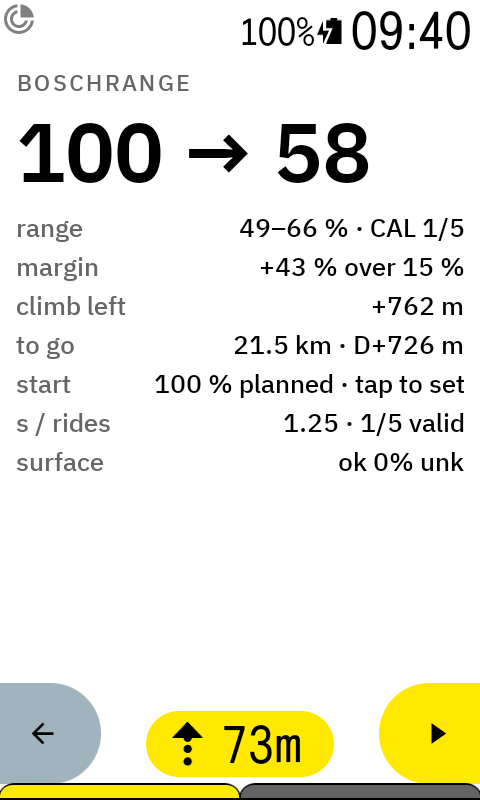
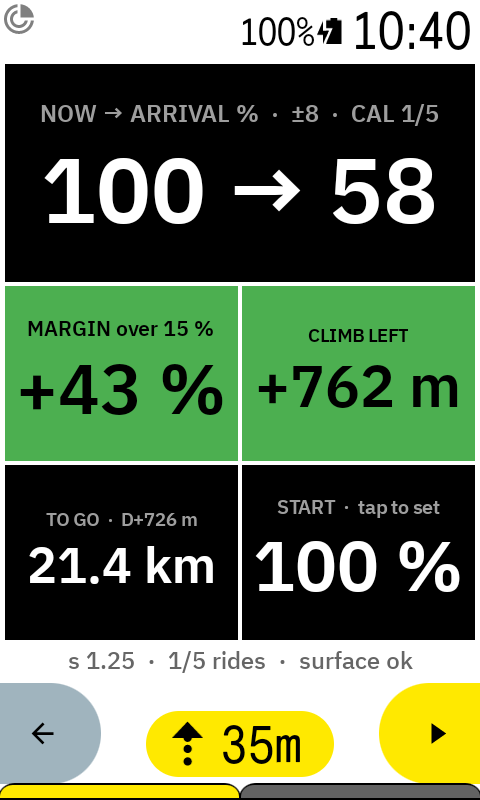
boschRange page as a grid in the dashboard style
Black cells with a grey caption and a big number, margin and climb left
on a green or red background, footer with s, rides and surface state.
The page no longer shares the debug layout.

Claude-Session: https://claude.ai/code/session_01JZj55SWxgeCuYPsXtstx2d

diff --git a/boschrange/src/main/kotlin/com/anpaiss/boschrange/RangePageDataType.kt b/boschrange/src/main/kotlin/com/anpaiss/boschrange/RangePageDataType.kt
@@ -1,47 +1,159 @@
 package com.anpaiss.boschrange
 
+import android.content.Context
+import android.util.TypedValue
+import android.widget.RemoteViews
+import com.anpaiss.bettereta.throttle
+import com.anpaiss.bettereta.whileVisible
+import io.hammerhead.karooext.extension.DataTypeImpl
+import io.hammerhead.karooext.internal.Emitter
+import io.hammerhead.karooext.internal.ViewEmitter
+import io.hammerhead.karooext.models.DataPoint
+import io.hammerhead.karooext.models.DataType
+import io.hammerhead.karooext.models.StreamState
+import io.hammerhead.karooext.models.UpdateGraphicConfig
+import io.hammerhead.karooext.models.ViewConfig
+import kotlinx.coroutines.CoroutineScope
+import kotlinx.coroutines.Dispatchers
+import kotlinx.coroutines.SupervisorJob
+import kotlinx.coroutines.cancel
 import kotlinx.coroutines.flow.StateFlow
+import kotlinx.coroutines.flow.distinctUntilChanged
+import kotlinx.coroutines.flow.map
+import kotlinx.coroutines.launch
 
 /**
- * The boschRange page (step 3, 19/10/2026): battery now and at arrival in
- * big, then range, margin, climb left, Wh spent, route to go, last entry,
- * calibration and surface, one item per row. Same layout and sizing as the
- * debug page; a tap opens "Battery now?".
+ * The boschRange page (step 3, 19/10/2026), a grid in the style of the
+ * BetterETA dashboard: black cells, grey caption on top, big number.
+ *
+ *   NOW → ARRIVAL        "100 → 58"             caption carries the band and the calibration state
+ *   MARGIN | CLIMB LEFT  "+43 %" | "+762 m"     green when the route fits, red when it does not
+ *   TO GO  | SPENT       "21.5 km" | "123 Wh"   (START "100 %" planned, before the ride)
+ *   footer               last entry, s, rides, surface state
+ *
+ * A tap anywhere opens "Battery now?" ([BatteryTapReceiver]); not in the preview.
  */
 class RangePageDataType(
     extension: String,
-    state: StateFlow<DebugState>,
-    visibleDataTypeIds: StateFlow<Set<String>?>,
-) : DebugFieldDataType(extension, "page", "BOSCHRANGE", state, visibleDataTypeIds) {
+    private val state: StateFlow<DebugState>,
+    private val visibleDataTypeIds: StateFlow<Set<String>?>,
+) : DataTypeImpl(extension, "page") {
 
-    override fun render(s: DebugState): PageContent {
-        if (!s.enabled && !s.rideOpen) return PageContent("OFF", listOf("boschRange" to "disabled in the app"))
-        val rows = mutableListOf<Pair<String, String>>()
+    private enum class Tone { NEUTRAL, OK, BAD }
+    private data class Cell(val label: String, val value: String, val tone: Tone = Tone.NEUTRAL)
+    private data class Page(val a: Cell, val b1: Cell, val b2: Cell, val c1: Cell, val c2: Cell, val footer: String)
+
+    companion object {
+        private const val REDRAW_THROTTLE_MS = 5_000L
+        private const val CHAR_EM = 0.62f     // bold digits, width per character
+        private const val WEIGHT_A = 1.25f    // the arrival row is taller than the two below (same as the layout)
+        private const val FOOTER_SP = 13f
+        private const val BLACK = 0xFF000000.toInt()
+        private const val WHITE = 0xFFFFFFFF.toInt()
+        private const val GREY = 0xFF9E9E9E.toInt()
+        private const val GREEN = 0xFF4CAF50.toInt()   // black text: 7.6:1
+        private const val RED = 0xFFD32F2F.toInt()     // white text: 5.0:1
+    }
+
+    override fun startStream(emitter: Emitter<StreamState>) {
+        val scope = CoroutineScope(Dispatchers.IO + SupervisorJob())
+        scope.launch {
+            state.map { Math.round(it.estimatedPct).toDouble() }.distinctUntilChanged().collect { pct ->
+                emitter.onNext(StreamState.Streaming(DataPoint(dataTypeId, mapOf(DataType.Field.SINGLE to pct))))
+            }
+        }
+        emitter.setCancellable { scope.cancel() }
+    }
+
+    override fun startView(context: Context, config: ViewConfig, emitter: ViewEmitter) {
+        val scope = CoroutineScope(Dispatchers.IO + SupervisorJob())
+        val density = context.resources.displayMetrics.density
+        val widthDp = config.viewSize.first / density - 4f          // page padding
+        val heightDp = config.viewSize.second / density - 16f       // 2 dp top, 14 dp bottom: the Karoo bar overlaps the last pixels
+        val footerDp = FOOTER_SP * 1.3f * 2 + 2f                     // two lines
+        val rowsDp = heightDp - footerDp - 2f * 2                    // minus the two row gaps
+        val rowADp = rowsDp * WEIGHT_A / (WEIGHT_A + 2f)
+        val rowBDp = rowsDp / (WEIGHT_A + 2f)
+        val halfDp = (widthDp - 2f) / 2f
+        val tap = if (config.preview) null else BatteryTapReceiver.pendingIntent(context)
+        scope.launch {
+            emitter.onNext(UpdateGraphicConfig(showHeader = false))
+            state.map { render(it) }
+                .distinctUntilChanged()
+                .whileVisible(visibleDataTypeIds, dataTypeId, config.preview)
+                .throttle(REDRAW_THROTTLE_MS)
+                .collect { p ->
+                    val views = RemoteViews(context.packageName, R.layout.view_range_page)
+                    cell(views, R.id.cell_a, R.id.lbl_a, R.id.val_a, p.a, widthDp, rowADp)
+                    cell(views, R.id.cell_b1, R.id.lbl_b1, R.id.val_b1, p.b1, halfDp, rowBDp)
+                    cell(views, R.id.cell_b2, R.id.lbl_b2, R.id.val_b2, p.b2, halfDp, rowBDp)
+                    cell(views, R.id.cell_c1, R.id.lbl_c1, R.id.val_c1, p.c1, halfDp, rowBDp)
+                    cell(views, R.id.cell_c2, R.id.lbl_c2, R.id.val_c2, p.c2, halfDp, rowBDp)
+                    views.setTextViewText(R.id.tv_footer, p.footer)
+                    views.setTextViewTextSize(R.id.tv_footer, TypedValue.COMPLEX_UNIT_SP, FOOTER_SP)
+                    tap?.let { views.setOnClickPendingIntent(R.id.page_root, it) }
+                    emitter.updateView(views)
+                }
+        }
+        emitter.setCancellable { scope.cancel() }
+    }
+
+    /** Caption and value sized to the cell: value 0.46 of the height, never wider than the cell. */
+    private fun cell(views: RemoteViews, cellId: Int, lblId: Int, valId: Int, c: Cell, wDp: Float, hDp: Float) {
+        val byHeight = hDp * 0.46f
+        val byWidth = (wDp - 8f) / (CHAR_EM * c.value.length.coerceAtLeast(3))
+        val valueSp = minOf(byHeight, byWidth).coerceIn(16f, 96f)
+        val labelByWidth = (wDp - 8f) / (0.55f * c.label.length.coerceAtLeast(6))
+        val labelSp = minOf(valueSp * 0.30f, labelByWidth).coerceIn(10f, 18f)
+        val (bg, fg, lbl) = when (c.tone) {
+            Tone.NEUTRAL -> Triple(BLACK, WHITE, GREY)
+            Tone.OK -> Triple(GREEN, BLACK, BLACK)
+            Tone.BAD -> Triple(RED, WHITE, WHITE)
+        }
+        views.setInt(cellId, "setBackgroundColor", bg)
+        views.setTextViewText(lblId, c.label)
+        views.setTextViewText(valId, c.value)
+        views.setTextColor(lblId, lbl)
+        views.setTextColor(valId, fg)
+        views.setTextViewTextSize(lblId, TypedValue.COMPLEX_UNIT_SP, labelSp)
+        views.setTextViewTextSize(valId, TypedValue.COMPLEX_UNIT_SP, valueSp)
+    }
+
+    private fun render(s: DebugState): Page {
+        if (!s.enabled && !s.rideOpen) {
+            val off = Cell("", "--")
+            return Page(Cell("BOSCHRANGE", "OFF"), off, off, off, off, "disabled in the app")
+        }
         val now = if (s.rideOpen) s.estimatedPct else s.planningPct.toDouble()
         val arrival = s.arrivalPct
-        val big = if (arrival == null) "%.0f %%".format(now) else "%.0f → %.0f %%".format(now, arrival)
-        if (arrival != null) {
-            val cal = if (s.historyValid < RangeForecast.CALIBRATION_RIDES) " · CAL ${s.historyValid}/${RangeForecast.CALIBRATION_RIDES}" else ""
-            rows += "range" to "%.0f–%.0f %%%s".format(arrival - s.halfBandPct, arrival + s.halfBandPct, cal)
-            rows += "margin" to "%+d %% over %d %%".format(Math.round(s.marginPct), s.thresholdPct)
-            rows += "climb left" to "%+d m".format(Math.round(s.extraClimbM))
-            rows += "to go" to "%.1f km · D+%.0f m".format(s.remainingKm, s.remainingAscentM)
-        } else {
-            rows += "route" to "none"
+        val cal = if (s.historyValid < RangeForecast.CALIBRATION_RIDES) "CAL ${s.historyValid}/${RangeForecast.CALIBRATION_RIDES}" else "calibrated"
+        val a = if (arrival == null) Cell("BATTERY NOW  ·  no route", "%.0f %%".format(now))
+            else Cell("NOW → ARRIVAL %%  ·  ±%.0f  ·  %s".format(s.halfBandPct, cal), "%.0f → %.0f".format(now, arrival))
+        val b1 = if (arrival == null) Cell("MARGIN", "--")
+            else Cell("MARGIN over ${s.thresholdPct} %", "%+d %%".format(Math.round(s.marginPct)), if (s.marginPct >= 0.0) Tone.OK else Tone.BAD)
+        val b2 = if (arrival == null) Cell("CLIMB LEFT", "--")
+            else Cell("CLIMB LEFT", "%+d m".format(Math.round(s.extraClimbM)), if (s.extraClimbM >= 0.0) Tone.OK else Tone.BAD)
+        val c1 = if (arrival == null) Cell("TO GO", "--")
+            else Cell("TO GO  ·  D+%.0f m".format(s.remainingAscentM), "%.1f km".format(s.remainingKm))
+        val c2 = if (s.rideOpen) Cell("SPENT  ·  %.0f %%".format(s.whEstimated / s.capacityWh * 100.0), "%.0f Wh".format(s.whEstimated))
+            else Cell("START  ·  tap to set", "%d %%".format(s.planningPct))
+        val parts = mutableListOf<String>()
+        if (s.rideOpen) parts += when {
+            s.manualUpdates > 0 -> "set %d %% @ %.1f km, %d min ago".format(s.lastUpdatePct, s.lastUpdateKm, s.lastUpdateAgeMin.coerceAtLeast(0))
+            s.startAssumed -> "start %d %% assumed".format(s.startPct)
+            else -> "start %d %% confirmed".format(s.startPct)
         }
-        if (s.rideOpen) {
-            rows += "spent" to "%.0f Wh · %.0f %%".format(s.whEstimated, s.whEstimated / s.capacityWh * 100.0)
-            rows += "last set" to when {
-                s.manualUpdates > 0 -> "%d %% @ %.1f km · %d min".format(s.lastUpdatePct, s.lastUpdateKm, s.lastUpdateAgeMin.coerceAtLeast(0))
-                s.startAssumed -> "none · start %d %% assumed".format(s.startPct)
-                else -> "start %d %% ✓".format(s.startPct)
-            }
-            rows += "ride" to "%.1f km D+%s %s".format(s.distanceKm, m(s.ascentKarooM), hm(s.movingS))
-        } else {
-            rows += "start" to "%d %% planned · tap to set".format(s.planningPct)
-        }
-        rows += "s / rides" to "%.2f · %d/%d valid".format(s.sUsed, s.historyValid, RangeForecast.CALIBRATION_RIDES)
-        if (s.hasRoute) rows += "surface" to surfaceValue(s)
-        return PageContent(big, rows)
+        parts += "s %.2f".format(s.sUsed)
+        parts += "%d/%d rides".format(s.historyValid, RangeForecast.CALIBRATION_RIDES)
+        if (s.hasRoute) parts += "surface " + surfaceShort(s)
+        return Page(a, b1, b2, c1, c2, parts.joinToString("  ·  "))
+    }
+
+    private fun surfaceShort(s: DebugState): String = when {
+        s.routeUnclassifiedPct < 0.0 -> "classifying…"
+        s.surfaceComplete == null -> "not classified"
+        s.surfaceComplete == false -> "partial"
+        s.routeUnclassifiedPct >= 1.0 -> "%.0f%% unknown".format(s.routeUnclassifiedPct)
+        else -> "ok"
     }
 }

diff --git a/boschrange/src/main/kotlin/com/anpaiss/boschrange/DebugFieldDataType.kt b/boschrange/src/main/kotlin/com/anpaiss/boschrange/DebugFieldDataType.kt
@@ -82,8 +82,7 @@ data class PageContent(val big: String, val rows: List<Pair<String, String>>)
  * from the slot (a full page gets the large set). This class is the provisional
  * debug page of the test rides (13/10): estimated battery now, Wh spent, s,
  * ride and route figures, surface classification and composition, the Flow
- * screenshot checklist and the history counts. [RangePageDataType] draws the
- * ride page of step 3 on the same layout. A tap opens "Battery now?".
+ * screenshot checklist and the history counts. A tap opens "Battery now?".
  */
 open class DebugFieldDataType(
     extension: String,
